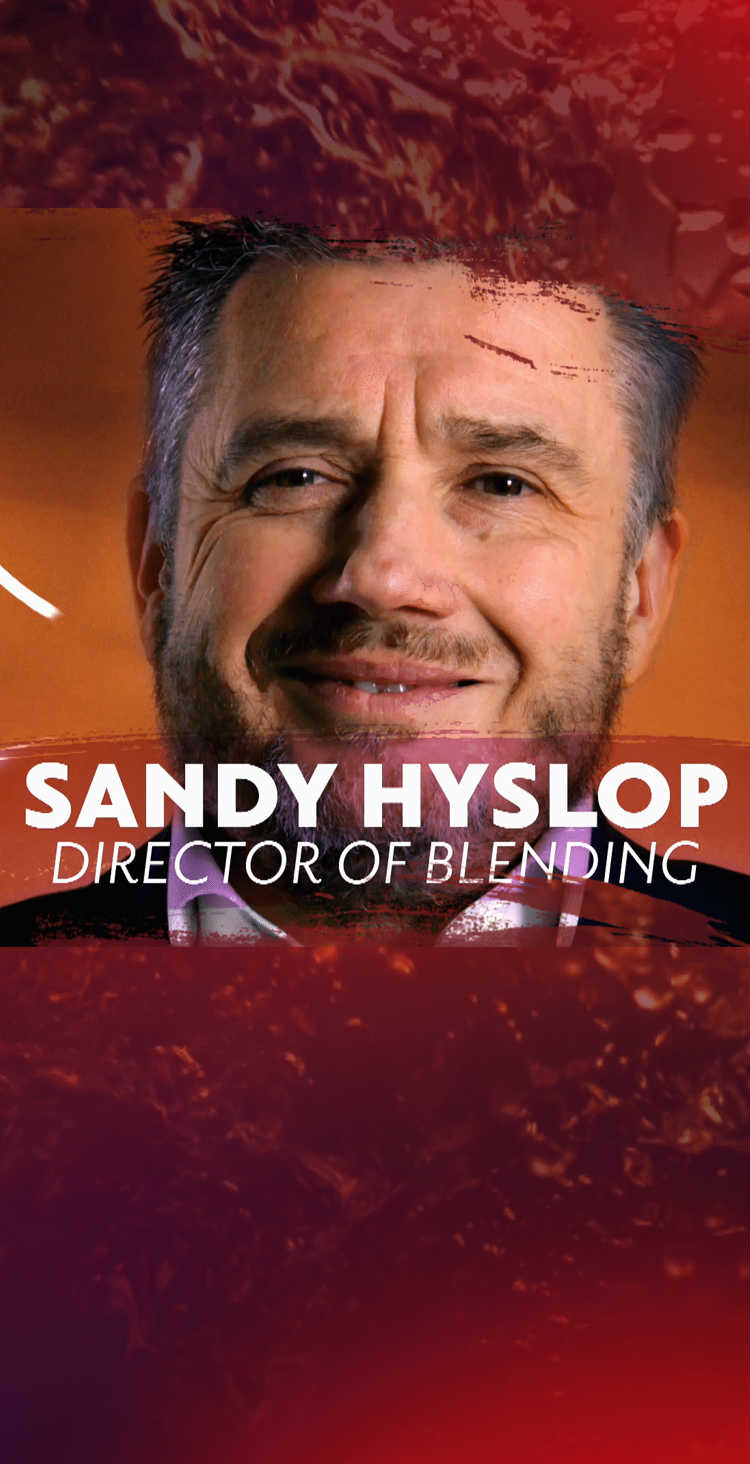
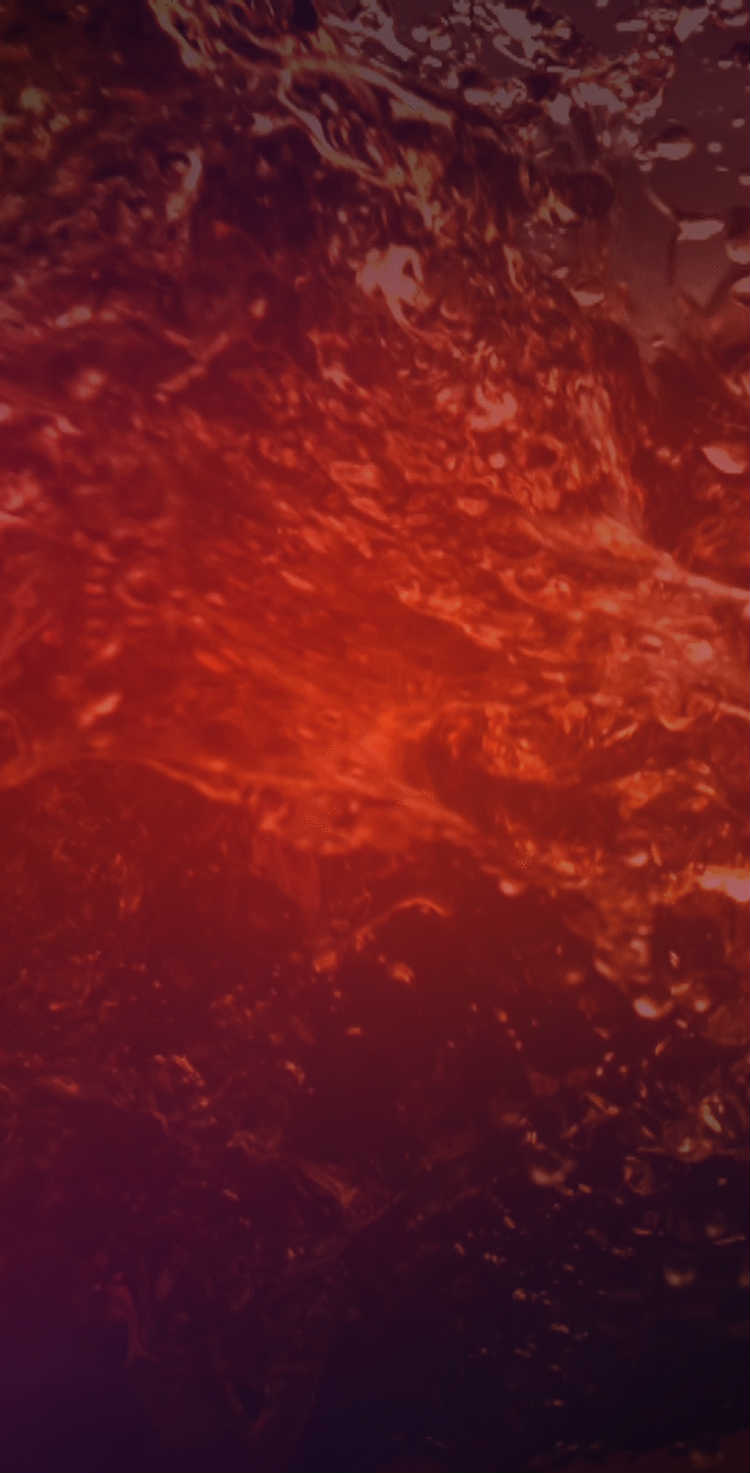
修改人物的动画

diff --git a/js/index.js b/js/index.js
@@ -176,6 +176,7 @@ $(document).ready(function () {
 			loader.addImage('images/videoBox/red/pic' + i + '.jpg');
 			loader.addImage('images/videoBox/black/pic' + i + '.jpg');
 			loader.addImage('images/videoBox/silver/pic' + i + '.jpg');
+			loader.addImage('images/peopleBox/people/' + i + '.jpg');
 		}
 
 		//实际加载进度
@@ -212,6 +213,7 @@ $(document).ready(function () {
 	var productBox = $("#productBox");
 	var peopleBox = $("#peopleBox");
 	var peopleAnime = $("#peopleAnime");
+	var wineAnime = $("#wineAnime");
 	var introBox = $("#introBox");
 	var wineBox = $("#wineBox");
 	var videoBox = $("#videoBox");
@@ -261,7 +263,8 @@ $(document).ready(function () {
 	 */
 	function DevelopTest() {
 		$("#loadingBox").hide();
-		showProductBox();
+		// showPeopleBox();
+		showWineBox();
 	}
 
 	/**
@@ -283,9 +286,9 @@ $(document).ready(function () {
 		peopleBox.find(".btn").on("touchend", showWineBox);
 
 		wineBox.find(".btn").on("touchend", showIntroBox);
-		// wineBox.one("touchmove", wineAnime);
-		wineBox.one("swipeleft", wineAnime);
-		wineBox.one("swiperight", wineAnime);
+		// wineBox.find(".wine").one("touchmove", wineAnime);
+		wineBox.find(".wine").one("swipeleft", wineSwiperAnime);
+		wineBox.find(".wine").one("swiperight", wineSwiperAnime);
 
 		videoBox.find(".close").on("touchend", closeVideoBox);
 
@@ -348,7 +351,7 @@ $(document).ready(function () {
 	/**
 	 * 酒的动画
 	 */
-	function wineAnime() {
+	function wineSwiperAnime() {
 		if (wineAnimeFlag) {
 			wineAnimeFlag = false;
 			var wine = wineBox.find(".wine");
@@ -429,6 +432,7 @@ $(document).ready(function () {
 		wineBox.show();
 		icom.fadeOut(peopleBox);
 		peopleAnime.destroy();
+		wineAnime.destroy();
 	}
 
 	/**
@@ -438,15 +442,32 @@ $(document).ready(function () {
 		peopleBox.show();
 		icom.fadeOut(moreBox);
 
+		wineAnime.VP({
+			debug: false,
+			autoPlay: true,
+			loop: true,
+			total: 10,
+			time: 1,
+			type: 'jpg',
+			poster: "images/peopleBox/1.jpg",
+			path: "images/peopleBox/",
+			onPlay: function () {
+
+			},
+			onEnd: function () {
+				
+			}
+		});
+
 		peopleAnime.VP({
 			debug: false,
 			autoPlay: true,
 			loop: false,
-			total: 10,
-			time: 1.5,
+			total: 70,
+			time: 4,
 			type: 'jpg',
-			poster: "images/peopleBox/1.jpg",
-			path: "images/peopleBox/",
+			poster: "images/peopleBox/people/1.jpg",
+			path: "images/peopleBox/people/",
 			onPlay: function () {
 
 			},

diff --git a/css/index.css b/css/index.css
@@ -570,6 +570,23 @@ img {
 	background-size: cover;
 	background-position: center;
 }
+#peopleBox .people{
+	position: absolute;
+	top: 50%;
+	left: 0;
+	width: 7.5rem;
+	height: 14.73rem;
+	margin-top: -7.5rem;
+	-webkit-mask: url(../images/peopleBox/mask.png);
+	-webkit-mask-size: 100% 100%;
+}
+#peopleBox .people #peopleAnime{
+	position: absolute;
+	top: 2.3rem;
+	left: 0;
+	width: 7.53rem;
+	height: 7.31rem;
+}
 #peopleBox .word{
 	position: absolute;
 	top: 50%;

diff --git a/index.html b/index.html
@@ -53,7 +53,10 @@
         </section>
 
         <section id="peopleBox" class="none">
-            <div id="peopleAnime" class="full"></div>
+            <div id="wineAnime" class="full"></div>
+            <div class="people">
+                <div id="peopleAnime"></div>
+            </div>
             <img src="images/peopleBox/word.png" class="word">
             <div class="btn"></div>
             <img src="images/public/tips.png" class="reasonTips">
